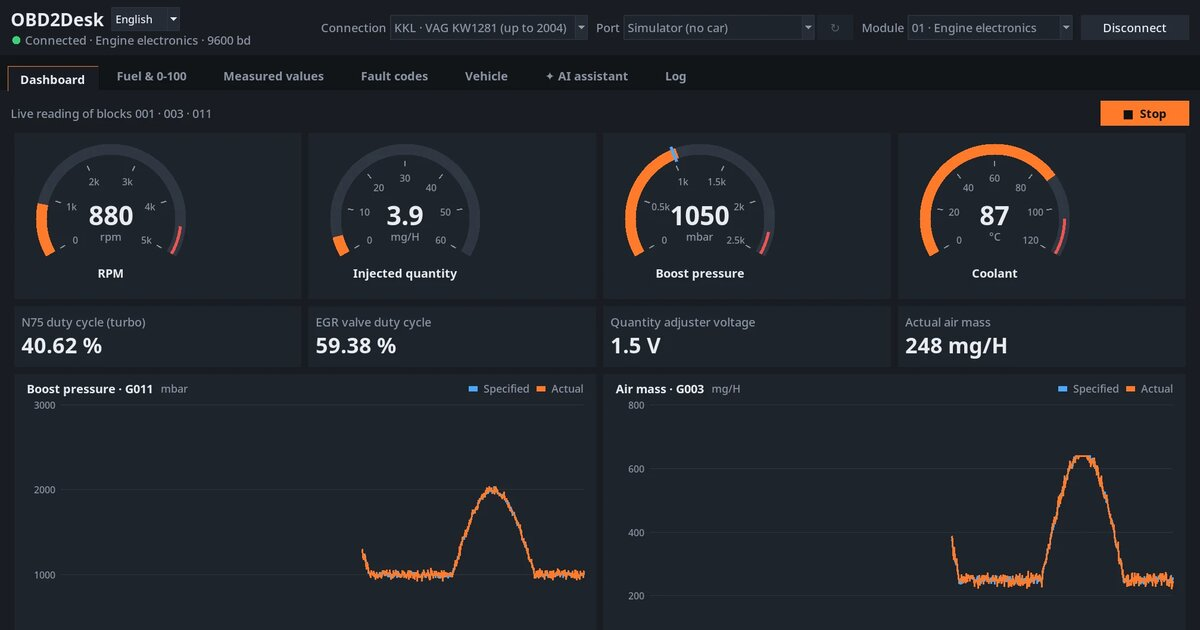
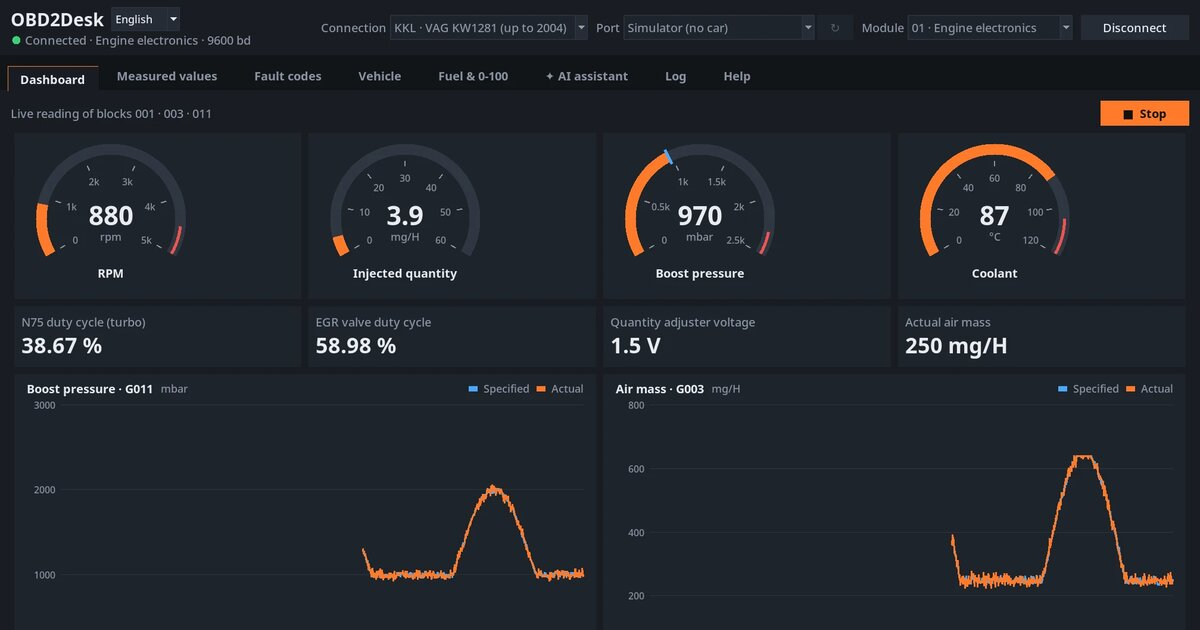
v0.6.0: versión, textos y capturas de la web, documentación

diff --git a/web/index.html b/web/index.html
@@ -85,7 +85,7 @@
     <div class="fila-funcion">
       <div class="texto-funcion">
         <h3>Panel en directo</h3>
-        <p>Relojes y gráficas de los últimos 60 segundos. Con el cable KKL ves régimen, caudal inyectado, presión de turbo frente a la teórica, masa de aire, ciclo de la N75 y de la EGR. Con un ELM327, régimen, velocidad, temperaturas, carga, caudalímetro, mariposa y tensión.</p>
+        <p>Relojes y gráficas de los últimos 60 segundos. Con el cable KKL ves régimen, caudal inyectado, presión de turbo frente a la teórica, masa de aire, ciclo de la N75 y de la EGR; en un VAG de gasolina, carga, mariposa, avance de encendido y tiempo de inyección. Con un ELM327, régimen, velocidad, temperaturas, carga, caudalímetro, mariposa y tensión.</p>
         <div class="selector" role="tablist" data-grupo="panel">
           <button role="tab" aria-selected="true" data-img="img/panel-kkl.webp" data-alt="Panel en modo KKL con turbo y masa de aire">KKL · VAG</button>
           <button role="tab" aria-selected="false" data-img="img/panel-obd.webp" data-alt="Panel en modo OBD2 con régimen, velocidad, refrigerante y carga">ELM327 · OBD2</button>
@@ -99,7 +99,7 @@
         <h3>Consumo y cronómetro 0-100</h3>
         <p>Consumo instantáneo y medio en L/100 km, litros gastados, distancia y tiempo del trayecto, con su gráfica. Usa el dato de consumo de la centralita si lo da; si no, lo calcula con el caudalímetro o, en coches sin él, con la presión del colector y la cilindrada. Reconoce solo si es gasolina o diésel.</p>
         <p><strong>Cronómetro 0-100 km/h</strong>, que también te da el tiempo de 0 a 50. No hay que pulsar nada al salir: con el coche parado se pone en espera, empieza a contar en cuanto el coche se mueve y se para solo al llegar a 100. Guarda tus últimas medidas y la mejor. Mídelo solo en un circuito o en un lugar cerrado al tráfico.</p>
-        <p>Con el cable KKL (EDC15) calcula el consumo en L/h con el caudal inyectado; esa centralita no da la velocidad, así que ahí no hay 0-100.</p>
+        <p>Con el cable KKL, en un TDI calcula el consumo en L/h con el caudal inyectado (esa centralita no da la velocidad, así que ahí no hay 0-100); en un VAG de gasolina, consumo en L/100 km, distancia y 0-100 con la masa de aire y la velocidad de la centralita.</p>
       </div>
       <figure class="captura"><a href="img/consumo-obd.webp" class="ampliar"><img src="img/consumo-obd.webp" width="2025" height="1200" loading="lazy" alt="Pestaña de consumo con el consumo instantáneo y medio, y un 0-100 medido"></a></figure>
     </div>
@@ -107,7 +107,7 @@
     <div class="fila-funcion">
       <div class="texto-funcion">
         <h3>Valores medidos, gráficas y grabación</h3>
-        <p>Elige los grupos de valores medidos VAG (001 inyección, 003 caudalímetro y EGR, 011 turbo…) o los PIDs OBD2 que tu coche soporta, y míralos en una tabla en directo. Haz clic en una fila (Ctrl+clic, hasta cuatro) y la verás en una <strong>gráfica en vivo</strong> con el último minuto.</p>
+        <p>Elige los grupos de valores medidos VAG (001 inyección, 003 caudalímetro y EGR, 011 turbo…), con el nombre de cada valor según el motor: TDI de bomba rotativa, TDI inyector-bomba o gasolina. O los PIDs OBD2 que tu coche soporta, y míralos en una tabla en directo. Haz clic en una fila (Ctrl+clic, hasta cuatro) y la verás en una <strong>gráfica en vivo</strong> con el último minuto.</p>
         <p><strong>Grabar CSV</strong> guarda cada lectura con su tiempo. Ábrela luego en el <strong>visor de CSV</strong> del propio programa: pasa el ratón para ver los valores, arrastra para ampliar un tramo y mira el mínimo, la media y el máximo. También se abre en Excel o LibreOffice.</p>
         <div class="selector" role="tablist" data-grupo="valores">
           <button role="tab" aria-selected="true" data-img="img/valores-kkl.webp" data-alt="Valores medidos de los grupos 001, 003 y 011 con la gráfica de la presión de turbo teórica y real">Gráfica en vivo</button>
@@ -120,7 +120,7 @@
     <div class="fila-funcion invertida">
       <div class="texto-funcion">
         <h3>Averías</h3>
-        <p>Códigos VAG de 5 cifras con el componente, el tipo de fallo y si es intermitente; también los 16xxx-18xxx de los VAG con OBD, traducidos a su código P. Con <strong>Escanear todos los módulos</strong> recorre motor, cambio, ABS, airbag, cuadro, confort… y te lista las averías de cada uno.</p>
+        <p>Códigos VAG de 5 cifras con el componente, el tipo de fallo y si es intermitente; también los 16xxx-18xxx de los VAG con OBD, traducidos a su código P, con <strong>más de 500 códigos P1</strong> propios de VAG descritos (también al leerlos por OBD2). Con <strong>Escanear todos los módulos</strong> recorre motor, cambio, ABS, airbag, cuadro, confort… y te lista las averías de cada uno.</p>
         <p>En OBD2, averías memorizadas, pendientes y <strong>permanentes</strong>, el testigo MIL y los <strong>datos congelados</strong>: régimen, temperatura, carga y demás valores del motor en el momento exacto en que saltó la avería.</p>
         <p>Puedes borrarlas (siempre pide confirmación) y <strong>generar un informe</strong> para imprimir o guardar en PDF, útil para el taller o al vender el coche. Recuerda: borrar un código no repara la avería.</p>
         <div class="selector" role="tablist" data-grupo="averias">
@@ -154,6 +154,7 @@
     </div>
 
     <ul class="extras">
+      <li><span class="nuevo">Nuevo</span> <strong>Ayuda integrada</strong>: una pestaña con el manual de cada parte del programa.</li>
       <li><strong>Simulador incluido</strong>: prueba todo sin coche eligiendo el puerto «Simulador (sin coche)».</li>
       <li><strong>Un solo archivo</strong>: no hay que instalar Python ni nada más.</li>
       <li><strong>Registro</strong> de toda la comunicación, con modo de depuración, por si algo falla.</li>
@@ -391,6 +392,7 @@ sudo usermod -aG dialout $USER</code></pre>
       <li>Verificado en coches reales, incluidas las novedades de la v0.3.0 (escaneo de módulos, datos congelados, monitores e informe) y de la v0.5.0 (consumo y 0-100, gráficas, visor de CSV e historial).</li>
       <li>Batería de pruebas automáticas con los simuladores integrados: cable KKL con varias centralitas VAG (motor EDC15, ABS, airbag y cuadro), y ELM327 con un coche OBD2 simulado.</li>
       <li>Asistente IA validado con la API real de Claude y de DeepSeek; sus funciones nuevas de la v0.5.0 (grabar valores, consultar el historial y generar el informe), con la de DeepSeek.</li>
+      <li>Novedades de la v0.6.0 (averías P1, grupos de TDI inyector-bomba y de gasolina, panel y consumo de gasolina por KKL) verificadas con los simuladores; pendientes de probar en coche.</li>
       <li>Compatible con Windows 10/11 y Linux (Ubuntu, Debian, Fedora, Arch y openSUSE).</li>
     </ul>
     <ul class="lista-no">

diff --git a/web/en/index.html b/web/en/index.html
@@ -84,7 +84,7 @@
     <div class="fila-funcion">
       <div class="texto-funcion">
         <h3>Live dashboard</h3>
-        <p>Gauges and charts of the last 60 seconds. With the KKL cable you see RPM, injected quantity, actual vs. specified boost pressure, air mass, and N75 and EGR duty cycle. With an ELM327: RPM, speed, temperatures, load, MAF, throttle and voltage.</p>
+        <p>Gauges and charts of the last 60 seconds. With the KKL cable you see RPM, injected quantity, actual vs. specified boost pressure, air mass, and N75 and EGR duty cycle; on a petrol VAG, load, throttle, ignition timing and injection time. With an ELM327: RPM, speed, temperatures, load, MAF, throttle and voltage.</p>
         <div class="selector" role="tablist" data-grupo="panel">
           <button role="tab" aria-selected="true" data-img="../img/en/panel-kkl.webp" data-alt="Dashboard in KKL mode with boost and air mass">KKL · VAG</button>
           <button role="tab" aria-selected="false" data-img="../img/en/panel-obd.webp" data-alt="Dashboard in OBD2 mode with RPM, speed, coolant and load">ELM327 · OBD2</button>
@@ -98,7 +98,7 @@
         <h3>Fuel consumption and 0-100 timer</h3>
         <p>Instant and average consumption in L/100 km, litres used, distance and trip time, with a chart. It uses the fuel rate reported by the control unit if available; otherwise it calculates it from the mass air flow sensor or, on cars without one, from manifold pressure and engine displacement. It detects by itself whether the car runs on petrol or diesel.</p>
         <p><strong>0-100 km/h timer</strong>, which also gives you your 0-50 time. No need to press anything as you pull away: with the car stopped it waits, starts counting as soon as the car moves and stops by itself at 100. It keeps your latest runs and your best time. Only measure on a track or a place closed to traffic.</p>
-        <p>With the KKL cable (EDC15) it calculates consumption in L/h from the injected quantity; that control unit does not report road speed, so there is no 0-100 there.</p>
+        <p>With the KKL cable, on a TDI it calculates consumption in L/h from the injected quantity (that control unit does not report road speed, so there is no 0-100 there); on a petrol VAG, consumption in L/100 km, distance and 0-100 from the control unit's air mass and speed.</p>
       </div>
       <figure class="captura"><a href="../img/en/consumo-obd.webp" class="ampliar"><img src="../img/en/consumo-obd.webp" width="2015" height="1200" loading="lazy" alt="Fuel tab with instant and average consumption and a measured 0-100 run"></a></figure>
     </div>
@@ -106,7 +106,7 @@
     <div class="fila-funcion">
       <div class="texto-funcion">
         <h3>Measuring blocks, graphs and logging</h3>
-        <p>Pick VAG measuring blocks (001 injection, 003 MAF and EGR, 011 boost…) or the OBD2 PIDs your car supports, and watch them in a live table. Click a row (Ctrl+click, up to four) to see it in a <strong>live graph</strong> with the last minute.</p>
+        <p>Pick VAG measuring blocks (001 injection, 003 MAF and EGR, 011 boost…), with each value named for the engine: TDI distributor pump, TDI unit injector (PD) or petrol. Or the OBD2 PIDs your car supports, and watch them in a live table. Click a row (Ctrl+click, up to four) to see it in a <strong>live graph</strong> with the last minute.</p>
         <p><strong>CSV logging</strong> saves every reading with a timestamp. Open it later in the program's own <strong>CSV viewer</strong>: hover to see the values, drag to zoom into a section and check the minimum, average and maximum. It also opens in Excel or LibreOffice.</p>
         <div class="selector" role="tablist" data-grupo="valores">
           <button role="tab" aria-selected="true" data-img="../img/en/valores-kkl.webp" data-alt="Measuring blocks 001, 003 and 011 with a graph of specified and actual boost pressure">Live graph</button>
@@ -119,7 +119,7 @@
     <div class="fila-funcion invertida">
       <div class="texto-funcion">
         <h3>Fault codes</h3>
-        <p>5-digit VAG codes with the component, the fault type and whether it is intermittent; also the 16xxx-18xxx codes of OBD-era VAG cars, translated to their P code. <strong>Scan all modules</strong> goes through engine, gearbox, ABS, airbag, instrument cluster, comfort… and lists the faults in each one.</p>
+        <p>5-digit VAG codes with the component, the fault type and whether it is intermittent; also the 16xxx-18xxx codes of OBD-era VAG cars, translated to their P code, with <strong>over 500 VAG-specific P1 codes</strong> described (also when read over OBD2). <strong>Scan all modules</strong> goes through engine, gearbox, ABS, airbag, instrument cluster, comfort… and lists the faults in each one.</p>
         <p>On OBD2: stored, pending and <strong>permanent</strong> codes, the MIL status and <strong>freeze frame data</strong>: RPM, temperature, load and other engine values at the exact moment the fault was set.</p>
         <p>You can clear them (it always asks for confirmation) and <strong>generate a report</strong> to print or save as PDF, handy for the workshop or when selling the car. Remember: clearing a code does not fix the fault.</p>
         <div class="selector" role="tablist" data-grupo="averias">
@@ -153,6 +153,7 @@
     </div>
 
     <ul class="extras">
+      <li><span class="nuevo">New</span> <strong>Built-in help</strong>: a tab with the manual for every part of the program.</li>
       <li><strong>Built-in simulator</strong>: try everything without a car by choosing the port “Simulator (no car)”.</li>
       <li><strong>A single file</strong>: no need to install Python or anything else.</li>
       <li><strong>Full communication log</strong>, with a debug mode, in case something goes wrong.</li>
@@ -390,6 +391,7 @@ sudo usermod -aG dialout $USER</code></pre>
       <li>Verified on real cars, including the new features in v0.3.0 (module scan, freeze frame data, monitors and report) and v0.5.0 (fuel consumption and 0-100, graphs, CSV viewer and history).</li>
       <li>Automated test suite with the built-in simulators: KKL cable with several VAG control units (EDC15 engine, ABS, airbag and instrument cluster), and ELM327 with a simulated OBD2 car.</li>
       <li>AI assistant validated with the real Claude and DeepSeek APIs; its new v0.5.0 features (recording values, checking the history and generating the report), with the DeepSeek API.</li>
+      <li>New in v0.6.0 (P1 fault codes, TDI unit-injector and petrol measuring blocks, petrol panel and consumption over KKL) verified with the simulators; yet to be tested on a car.</li>
       <li>Compatible with Windows 10/11 and Linux (Ubuntu, Debian, Fedora, Arch and openSUSE).</li>
     </ul>
     <ul class="lista-no">

diff --git a/gui.py b/gui.py
@@ -59,7 +59,7 @@ FONT = "Segoe UI" if WINDOWS else "DejaVu Sans"
 MONO = "Consolas" if WINDOWS else "DejaVu Sans Mono"
 NOMBRE = "OBD2Desk"
 WIFI = "WiFi · 192.168.0.10:35000"      # dirección habitual de los ELM327 WiFi
-VERSION = "0.5.0"
+VERSION = "0.6.0"
 URL_RELEASES = "https://github.com/jaso69/obd2/releases"
 
 KKL, ELM = "kkl", "elm"

diff --git a/docs/PROYECTO.md b/docs/PROYECTO.md
@@ -337,6 +337,11 @@ Hecho en Fedora el 2026-11-27 (cierre): `.exe` copiado de la partición de Windo
 - `tests/prueba_csv.py` se caía en la consola de Windows (cp1252) al imprimir «→»; cambiado por «->».
 - Web publicada el 2026-11-27 (`./web/publicar.sh "Web v0.5.0"`); los botones descargan la v0.5.0.
 
+### 8.2d Release v0.6.0 (2026-11-28)
+- Pestaña Ayuda (y «Consumo y 0-100» tras «Vehículo»), 538 averías P1 de VAG (también en OBD2 si el VIN es VAG), grupos de TDI inyector-bomba y de gasolina con selector de Motor, Panel y consumo/0-100 de gasolina por KKL. `VERSION = "0.6.0"`.
+- Pruebas antes de etiquetar: simuladores, idioma, consumo, csv, historial y GUI en español e inglés → «TODO CORRECTO». Probado solo con simuladores: **falta probar en coche un VAG de gasolina y un TDI inyector-bomba por KKL**.
+- Web: textos de la v0.6.0 y capturas rehechas (barra de pestañas con «Ayuda»).
+
 ### 8.3 Cómo sacar la próxima versión (lista de pasos)
 Resumen de lo que funcionó con la v0.2.0 y la v0.3.0:
 1. Fedora: cambiar `VERSION` en `gui.py`; `.venv/bin/python tests/prueba_simuladores.py`, `.venv/bin/python tests/prueba_idioma.py`, `xvfb-run -a .venv/bin/python tests/prueba_gui.py` y `OBD2DESK_IDIOMA=en xvfb-run -a .venv/bin/python tests/prueba_gui.py` → «TODO CORRECTO» (las dos de GUI una detrás de otra: a la vez chocan en el nombre del CSV).
@@ -354,7 +359,7 @@ Resumen de lo que funcionó con la v0.2.0 y la v0.3.0:
 - **Probado por el usuario (anotado el 2026-11-28)**: en Linux, los adaptadores físicos (cable FTDI con `dialout`, ELM327 Bluetooth con `rfcomm`) y el lanzador en un escritorio real.
 - Ajustes probables al probar con coche: tiempos entre bytes (`--retardo` en consola), alguna fórmula VAG, textos de averías.
 - **v0.3.0 probada en coche** (2026-11-22, el usuario: «funciona bien»); la web lo dice. Falta probar con un ELM327 WiFi real (la web lo indica como pendiente).
-- Tabla de averías VAG: unos 90 códigos clásicos (00xxx-01xxx) de motor, cambio, ABS, airbag, cuadro/inmovilizador, confort y radio, más los códigos en formato OBD (16xxx = P0xxx, que se describen con la tabla OBD2; 17xxx-18xxx = P1xxx, 21 en la tabla). Los demás salen con número y «no incluido en la tabla». Ampliada el 2026-11-22 en la v0.3.0 (publicada, web actualizada).
+- Tabla de averías VAG: unos 90 códigos clásicos (00xxx-01xxx) de motor, cambio, ABS, airbag, cuadro/inmovilizador, confort y radio, más los códigos en formato OBD (16xxx = P0xxx, que se describen con la tabla OBD2; 17xxx-18xxx = P1xxx, 538 en la tabla `vag_p1.py` desde la v0.6.0). Los demás salen con número y «no incluido en la tabla». Ampliada el 2026-11-22 en la v0.3.0 (publicada, web actualizada).
 - La lista de fórmulas VAG viene de documentación pública del protocolo; si una fórmula no se conoce se muestra `a=.. b=..`.
 - No hay funciones de adaptación, ajustes básicos, codificación ni test de actuadores (solo lectura y borrado de averías).
 

diff --git a/CLAUDE.md b/CLAUDE.md
@@ -46,4 +46,6 @@ Se llamaba *Toledo Diagnosis* hasta la v0.3.0; desde el 2026-11-27 es **OBD2Desk
 
 **v0.5.0 publicada y cerrada (2026-11-27, «Latest», etiqueta `v0.5.0` → `1c10616`)**: Bloque 2 (consumo y 0-100, gráfica en vivo y visor de CSV, historial por coche, herramientas nuevas de la IA), probado en coche por el usuario e IA probada con la API real de DeepSeek. Release con `OBD2Desk.exe` (probado en Windows) y el paquete Linux; web publicada con las novedades y las descargas de la v0.5.0.
 
+**v0.6.0 (2026-11-28)**: pestaña Ayuda, 538 averías P1 de VAG, grupos de TDI inyector-bomba y gasolina con selector de Motor, Panel y consumo de gasolina por KKL. Probada solo con simuladores (falta coche de gasolina VAG y PD). Ver `docs/PROYECTO.md` §8.2d.
+
 **Próximos pasos**: `docs/PROYECTO.md` §10 (Bloque 2 hecho en la v0.5.0; quedan los pendientes y lo de «más adelante»). Pasos para sacar una versión: §8.3. La versión para Mac está aparcada.
